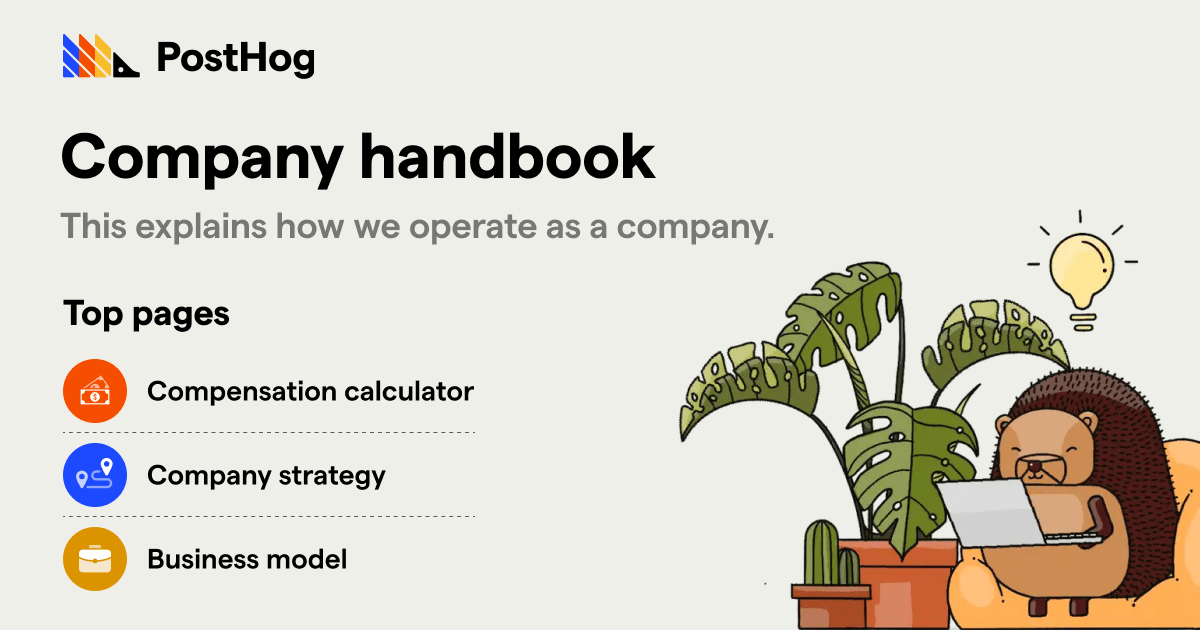
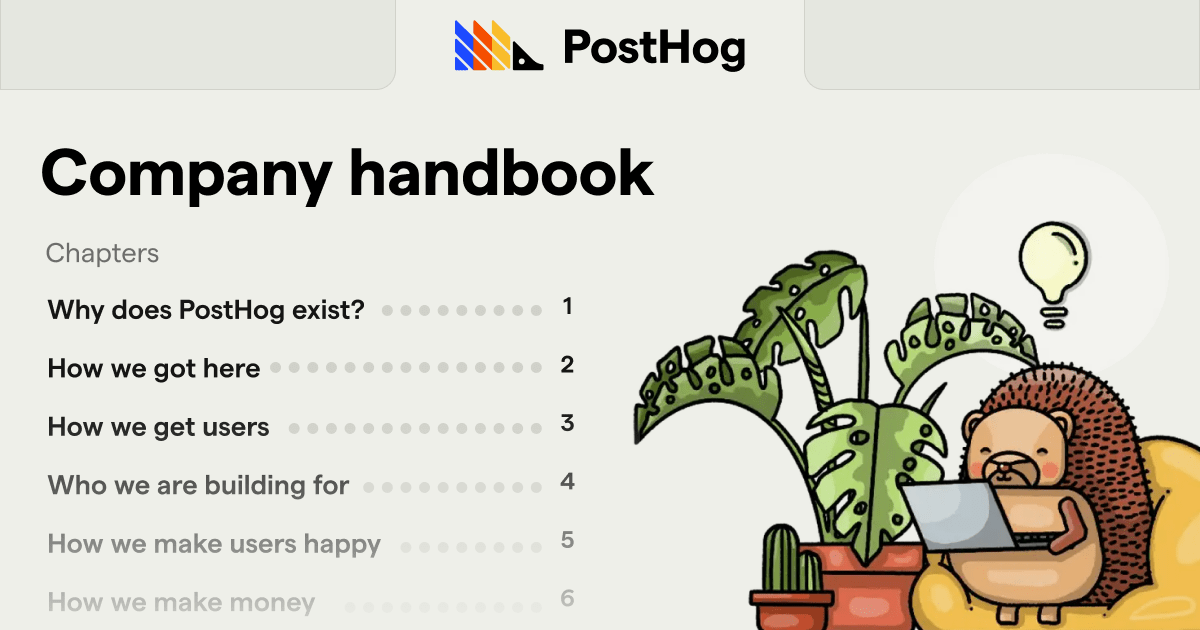
updated some open graph images

diff --git a/src/pages/enterprise.js b/src/pages/enterprise.js
@@ -13,7 +13,11 @@ const heroTitle = 'PostHog for enterprise'
 export default function Enterprise() {
     return (
         <Layout>
-            <SEO title="PostHog for enterprise" />
+            <SEO
+                title="PostHog for enterprise"
+                description="The same great product - just with all the awards."
+                image={`/images/enterprise.png`}
+            />
             <div className={section('z-10 relative md:!mb-8')}>
                 <h1 className={`${heading()} overflow-hidden pb-1 home-hero-title`}>
                     {heroTitle.split(' ').map((word, index) => (

diff --git a/src/pages/about.tsx b/src/pages/about.tsx
@@ -15,7 +15,7 @@ const AboutPage = () => {
             <SEO
                 title="About PostHog"
                 description="PostHog is building the world's first open source Product OS."
-                image={`/og-images/about.jpeg`}
+                image={`/images/about.png`}
             />
 
             <AboutHero />
